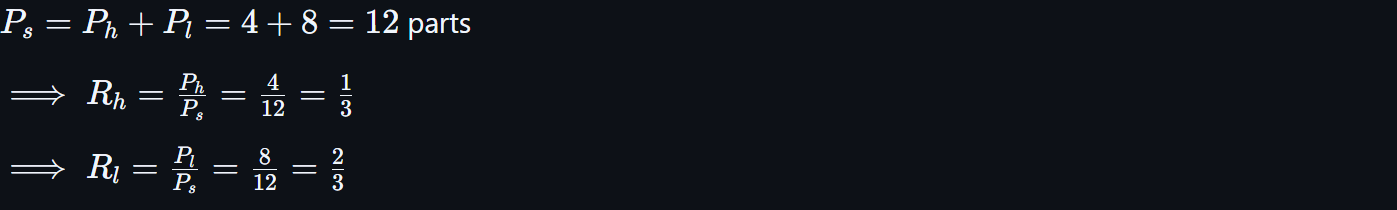
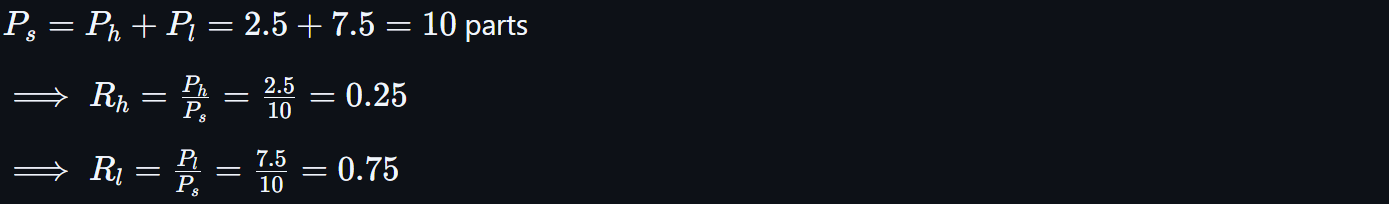
fix e3

Changed region(s): [[0.0, 0.0294, 0.4024, 0.2059], [0.0, 0.6765, 0.3096, 0.9706], [0.0, 0.3529, 0.3096, 0.5882]]

diff --git a/math/alligations.md b/math/alligations.md
@@ -47,32 +47,32 @@ ${\boxed{\text{Lower Strength in Final Solution (Parts)} = P_l}}$
 
 ### 🧩 Determining Ratios of Each
 
-<!-- ![ratios](./img/alligations/f_ratios.PNG) -->
-${\boxed{\text{Total Sum of All (Parts)} = P_t} = P_h + P_l}$
+![ratios](./img/alligations/f_ratios.PNG)
+<!-- ${\boxed{\text{Total Sum of All (Parts)} = P_t} = P_h + P_l}$
 
 ${\boxed{\implies \text{Ratio of Higher Strength } (R_h)= \frac{P_h}{P_t}}}$
 
-${\boxed{\implies \text{Ratio of Lower Strength } (R_l)= \frac{P_l}{P_t}}}$
+${\boxed{\implies \text{Ratio of Lower Strength } (R_l)= \frac{P_l}{P_t}}}$ -->
 
 ### 🧩 Determining Amounts of Each
 
 For **Liquids Use Volume**:
 
-<!-- ![volumes](./img/alligations/f_volumes.PNG) -->
-${\boxed{\text{Total Sum Volume (mL)} = V_t\ (\text{Given})}}$
+![volumes](./img/alligations/f_volumes.PNG)
+<!-- ${\boxed{\text{Total Sum Volume (mL)} = V_t\ (\text{Given})}}$
 
 ${\boxed{\implies \text{Higher Strength Volume } (V_h) = R_h \times V_t = (\frac{P_h}{P_t}) \times V_t}}$
 
-${\boxed{\implies \text{Lower Strength Volume } (V_l) = R_l \times V_t = (\frac{P_l}{P_t}) \times V_t}}$
+${\boxed{\implies \text{Lower Strength Volume } (V_l) = R_l \times V_t = (\frac{P_l}{P_t}) \times V_t}}$ -->
 
 For **Solids Use Mass**:
 
-<!-- ![volumes](./img/alligations/f_masses.PNG) -->
-${\boxed{\text{Total Sum Mass (g)} = M_t\ (\text{Given})}}$
+![volumes](./img/alligations/f_masses.PNG)
+<!-- ${\boxed{\text{Total Sum Mass (g)} = M_t\ (\text{Given})}}$
 
 ${\boxed{\implies \text{Higher Strength Mass } (M_h) = R_h \times M_t = (\frac{P_h}{P_t}) \times M_t}}$
 
-${\boxed{\implies \text{Lower Strength Mass } (M_l) = R_l \times M_t = (\frac{P_l}{P_t}) \times M_t}}$
+${\boxed{\implies \text{Lower Strength Mass } (M_l) = R_l \times M_t = (\frac{P_l}{P_t}) \times M_t}}$ -->
 
 ## Examples
 
@@ -167,19 +167,19 @@ $C_l = 0\%$ (sterile water = no drug)
 
 $C_d = 2.5\%$
 
-| $C_h = 20\%$ |                 | $P_h = 12 - 8 = 4$ parts  |
-|--------------|-----------------|---------------------------|
-|              | $C_d = 12\%$    |                           |
-| $C_l = 8\%$  |                 | $P_l = 20 - 12 = 8$ parts | -->
+| $C_h = 10\%$ |                 | $P_h = 2.5 - 0 = 2.5$ parts  |
+|--------------|-----------------|------------------------------|
+|              | $C_d = 2.5\%$   |                              |
+| $C_l = 0\%$  |                 | $P_l = 10 - 2.5 = 7.5$ parts | -->
 
 Step 2: **Calculate Ratios**
 
 ![ratios](./img/alligations/e3_ratios.PNG)
-<!-- $P_s = P_h + P_l = 4 + 8 = 12$ parts
+<!-- $P_s = P_h + P_l = 2.5 + 7.5 = 10$ parts
 
-$\implies R_h = \frac{P_h}{P_s} = \frac{4}{12} = \frac{1}{3}$
+$\implies R_h = \frac{P_h}{P_s} = \frac{2.5}{10} = 0.25$
 
-$\implies R_l = \frac{P_l}{P_s} = \frac{8}{12} = \frac{2}{3}$ -->
+$\implies R_l = \frac{P_l}{P_s} = \frac{7.5}{10} = 0.75$ -->
 
 Step 3: **Determine Volumes**
 
